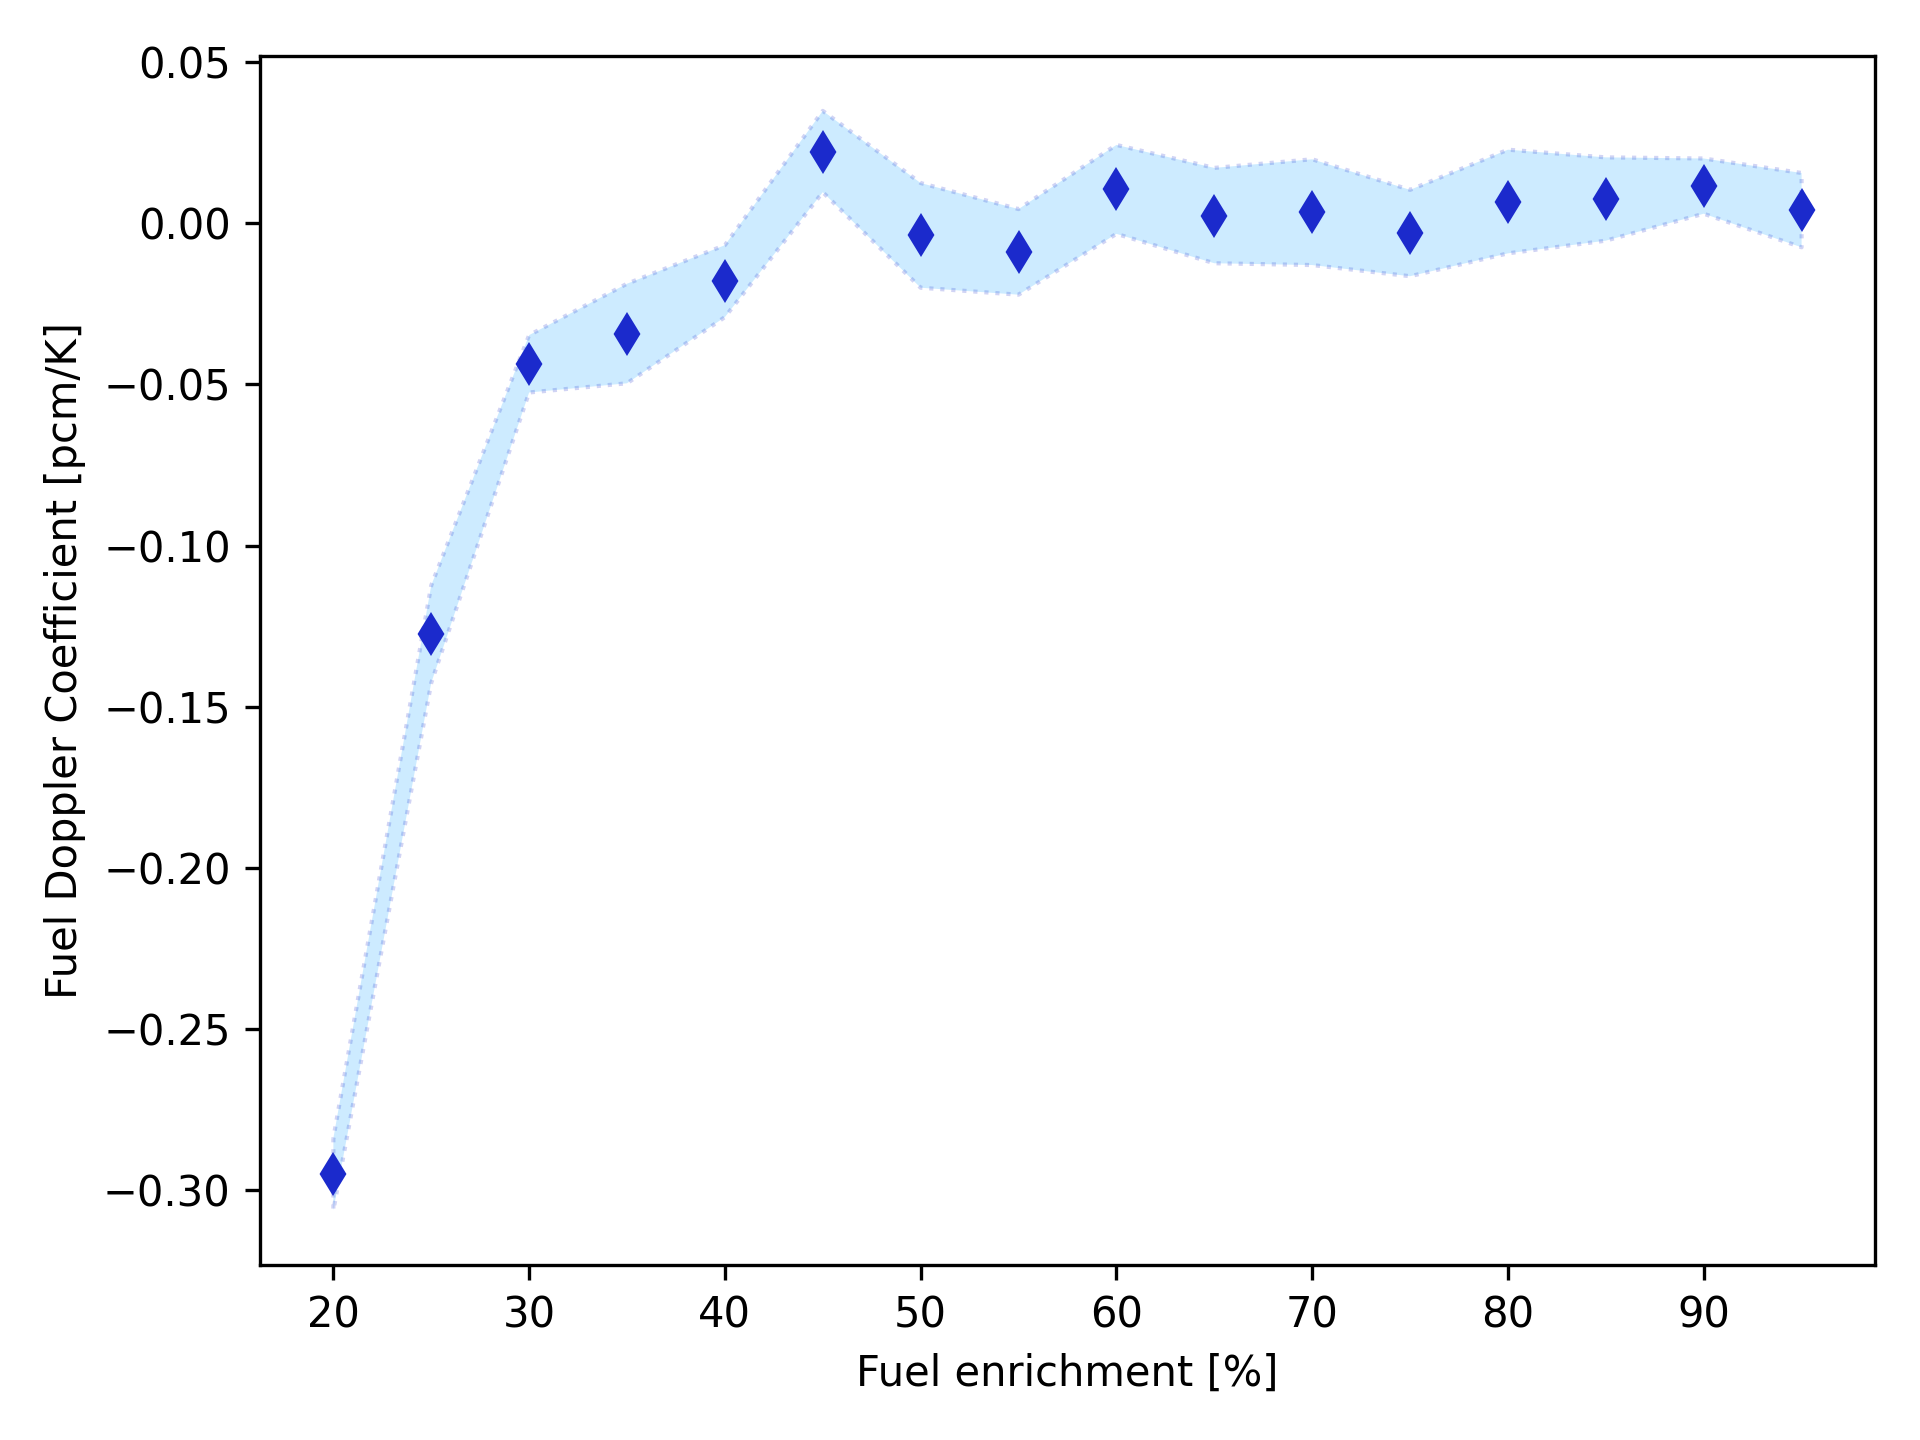
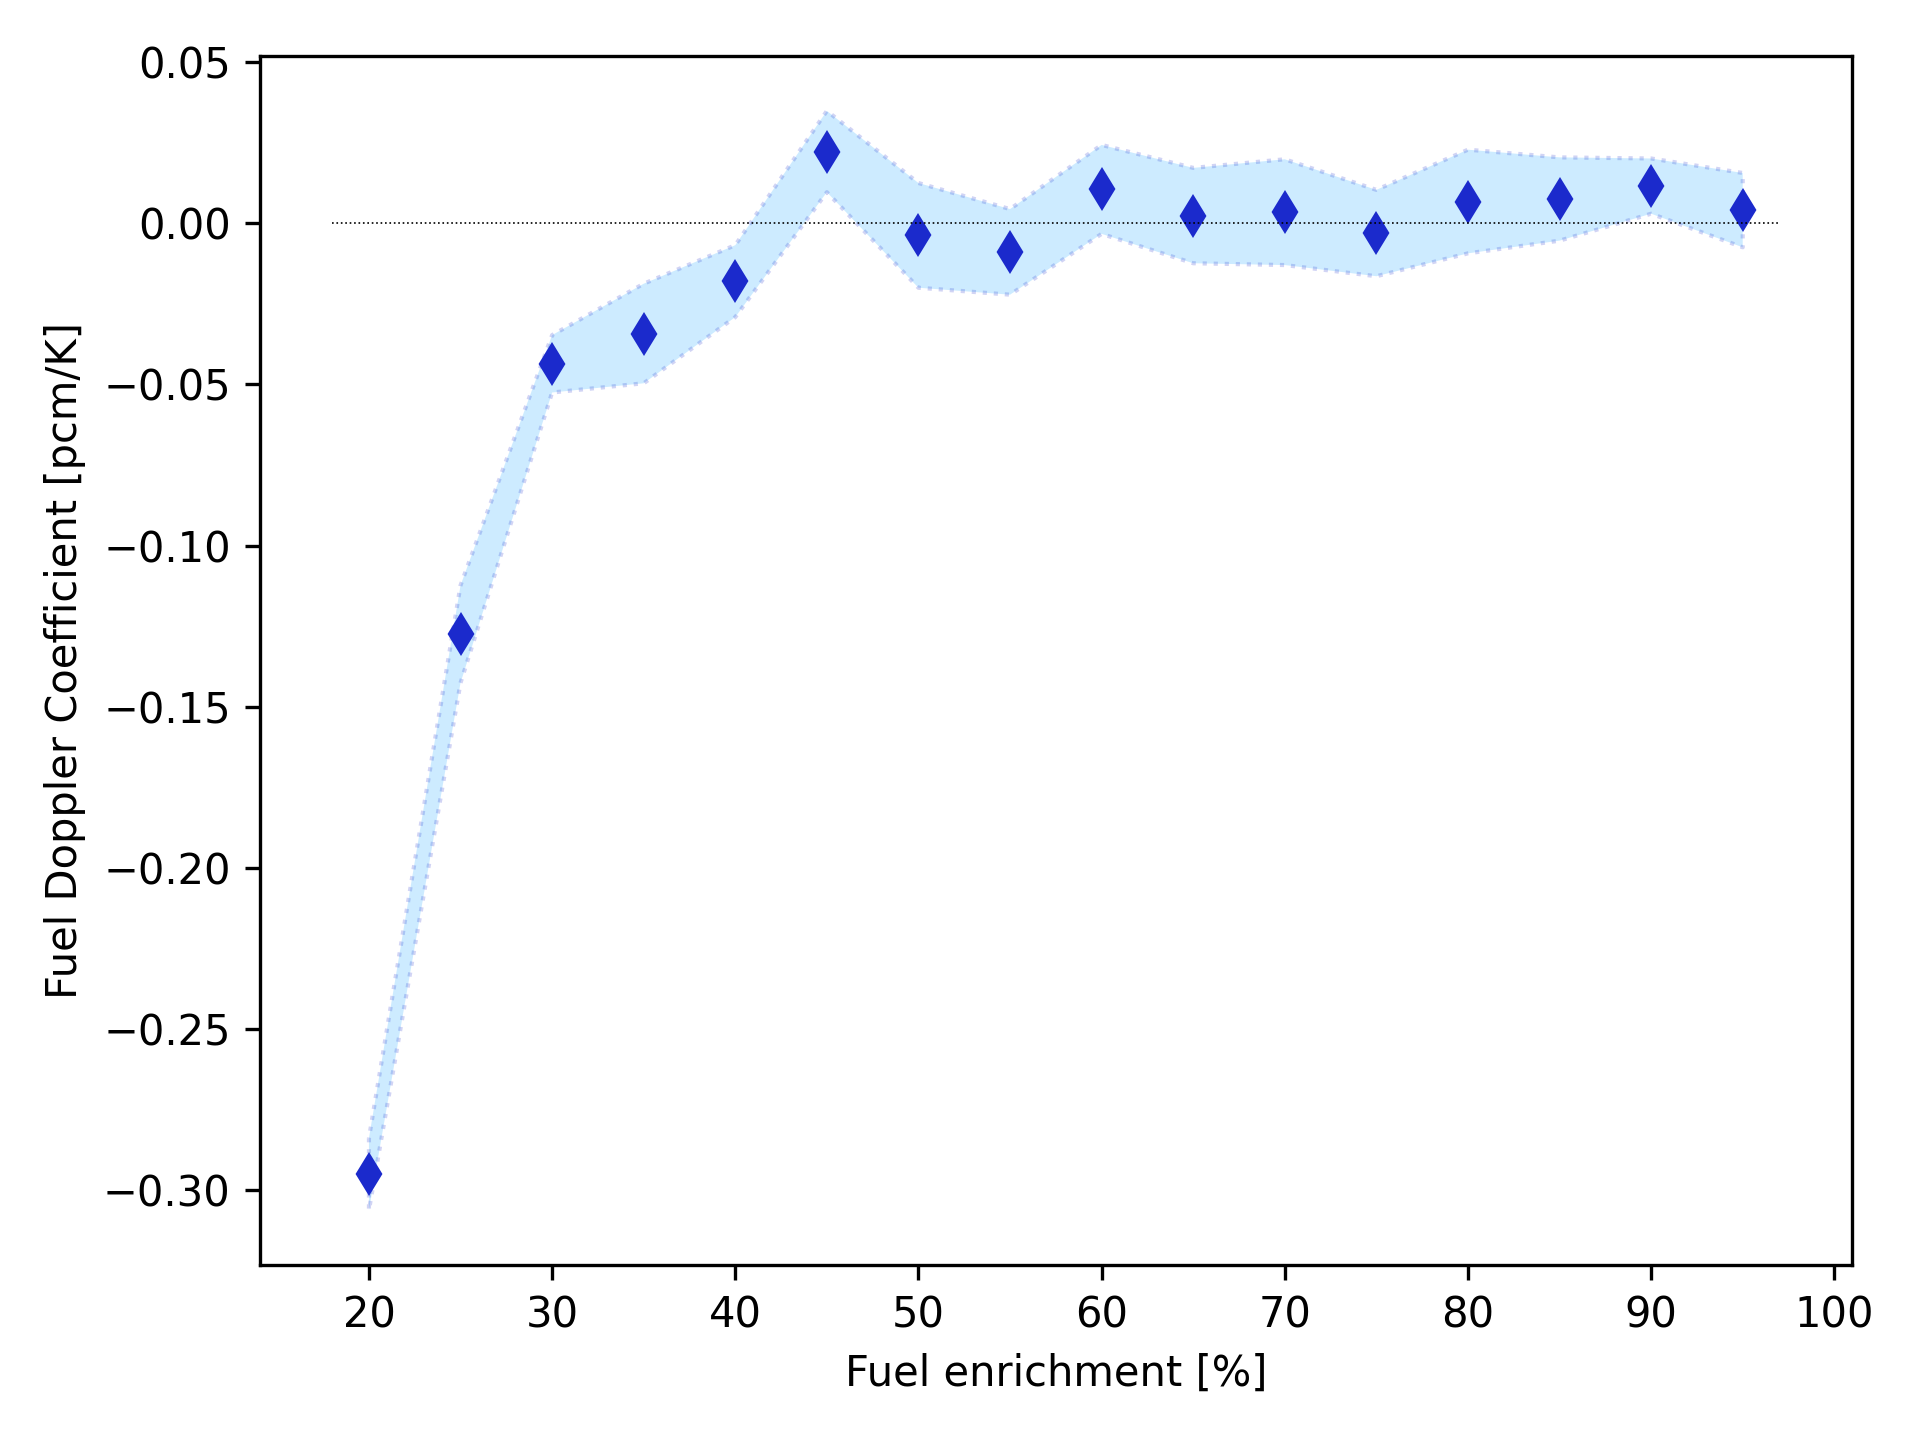
line at 0

diff --git a/22-FuelDopplerEnr/doppler_fits.py b/22-FuelDopplerEnr/doppler_fits.py
@@ -94,10 +94,14 @@ with open("coefs_fuel_doppler.json") as f:
 """
 
 enr_array = np.array(list(coefs_fdopp.keys()), dtype=float) * 100.0
+#line_x = np.linspace(min(enr_array), max(enr_array), num_x)
+line_x = np.linspace(18, 97, num_x)
+line_0 = line_x * 0.0
 fueldopp_array = np.array([x[0] for x in coefs_fdopp.values()])
 fueldopp_error_array = np.array([x[1] for x in coefs_fdopp.values()])
 
 plt.plot(enr_array, fueldopp_array, 'd', linewidth=0.2, color='#1B2ACC')
+plt.plot(line_x, line_0, 'k-', linewidth=0.4, ls='dotted')
 plt.fill_between(enr_array, fueldopp_array - fueldopp_error_array,
                  fueldopp_array + fueldopp_error_array,
                  alpha=0.2, edgecolor='#1B2ACC', facecolor='#089FFF',
